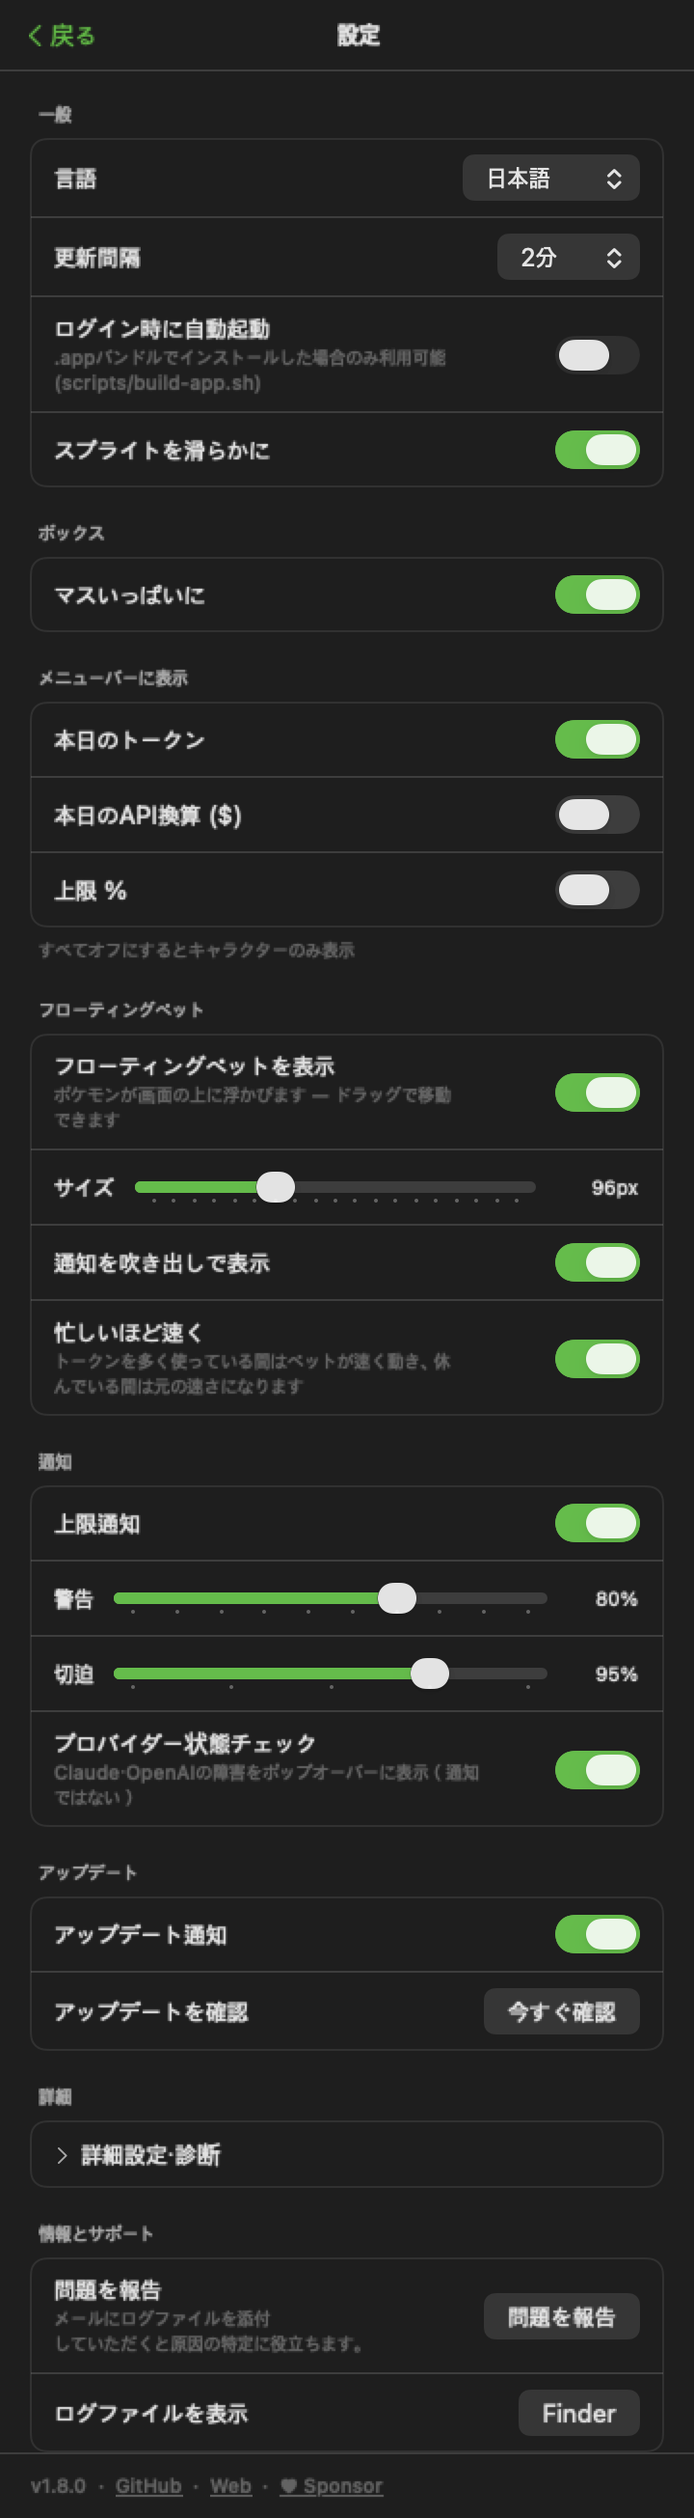
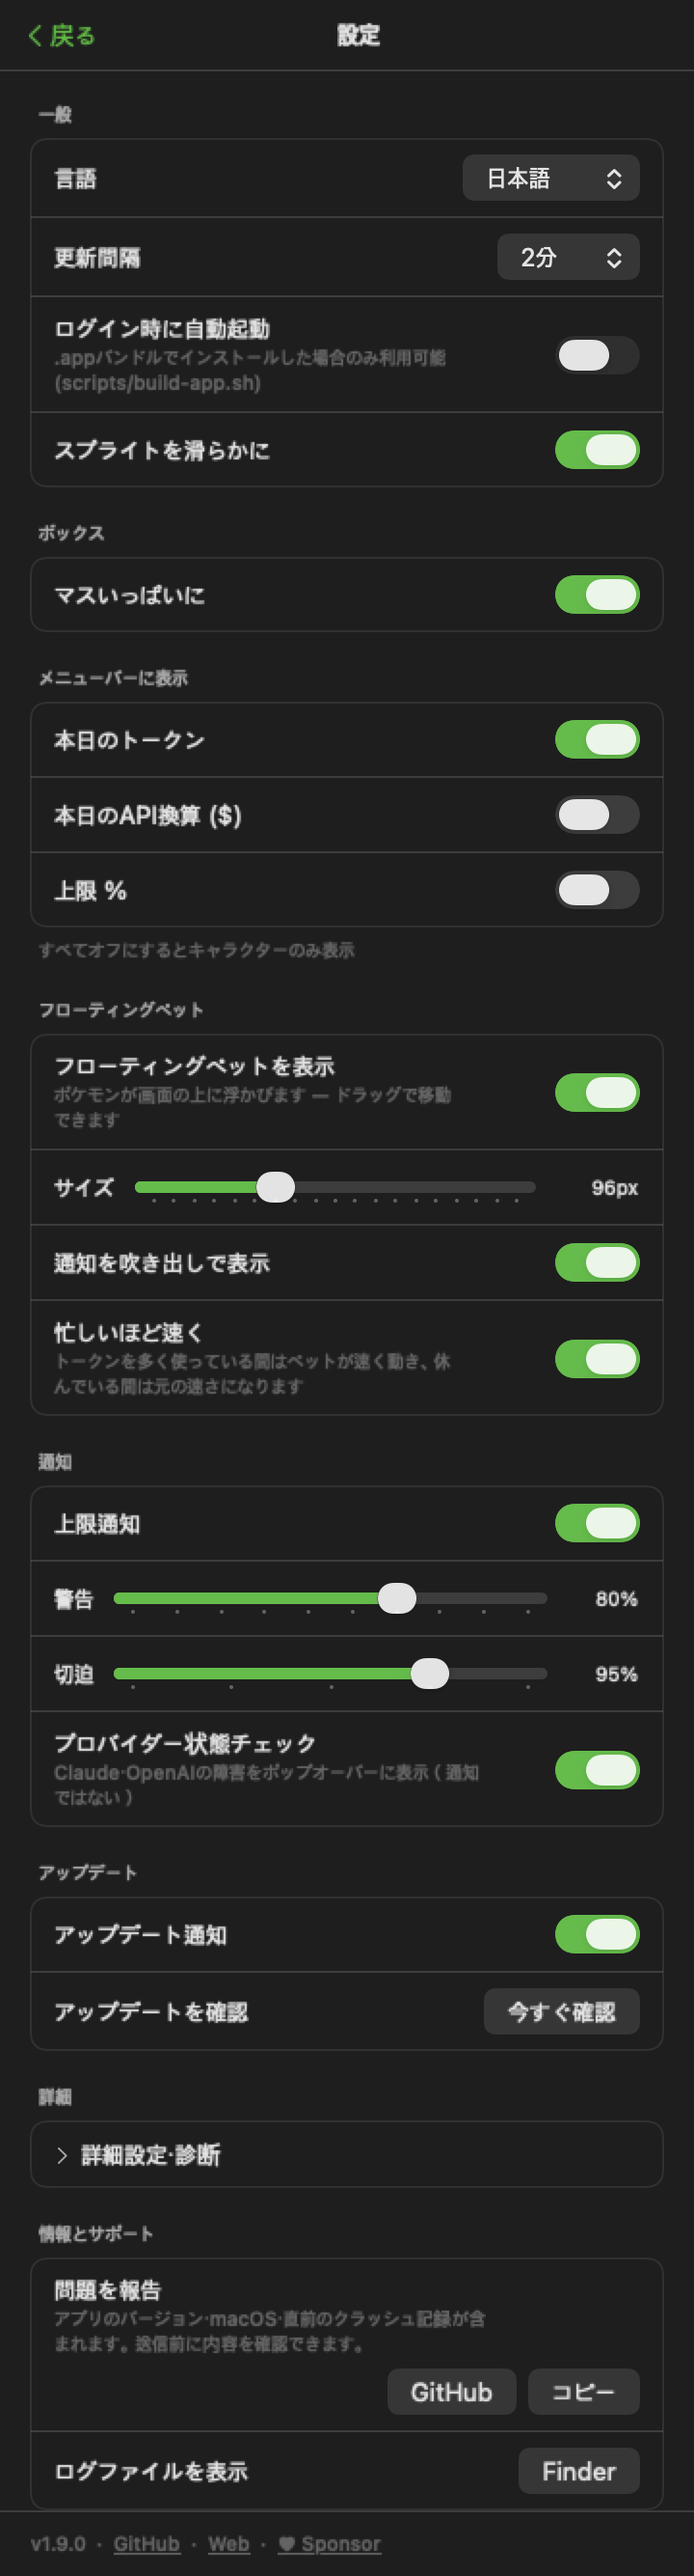
docs: document GitHub issue reporting with a new screenshot

diff --git a/Tests/PokeDexBarTests/ScreenshotGenerator.swift b/Tests/PokeDexBarTests/ScreenshotGenerator.swift
@@ -935,6 +935,12 @@ final class ScreenshotGeneratorTests: XCTestCase {
         // §릴리스 1 하드 게이트가 요구하는 신규 에셋이 이것이다.
         try write(png(boxTidyBanner()), "box-tidy.png")
 
+        // 문제 제보 — 크래시 배너(홈)와 설정의 제보 줄을 위아래로. **픽스처에 크래시 기록을
+        // 심어야 배너가 찍힌다** — 안 심으면 아무리 다시 생성해도 빈 자리만 나온다(설정
+        // 스크린샷에 플로팅 펫이 꺼져 있어 새 토글이 영영 안 찍히던 함정과 같은 부류).
+        // §릴리스 1 하드 게이트가 요구하는 신규 에셋이 이것이다.
+        try write(png(crashReportBanner()), "report.png")
+
         // 태어날 때 정해지는 겉모습 — 이름 옆 배지가 그 개체가 어떤 무늬로 태어났는지 말한다.
         // 지방 배지와 같은 자리를 쓰므로, 이 그림 하나로 두 규칙이 같이 설명된다.
         try write(png(tabChrome(BoxTabView(store: fixture.player, lines: ScreenshotFixture.lines,
@@ -1247,6 +1253,52 @@ final class ScreenshotGeneratorTests: XCTestCase {
         return VStack(alignment: .leading, spacing: 10) {
             grid(false, "As you got them")
             grid(true, "Tidied by highest level")
+        }
+        .padding(.horizontal, 14).padding(.vertical, 14)
+        .frame(width: PopoverMetrics.width, alignment: .leading)
+        .background(Color(nsColor: .windowBackgroundColor))
+    }
+
+    /// 크래시 제보 — 홈에 뜨는 배너와 설정의 제보 줄을 한 그림에.
+    ///
+    /// **크래시 기록을 실제로 심는다.** 배너는 `LastCrash.load()` 가 확인 전 기록을 돌려줄 때만
+    /// 뜨므로, 심지 않으면 이 캡처는 영원히 빈 자리다.
+    private func crashReportBanner() -> some View {
+        let now = ScreenshotFixture.now
+        let store = PlayerStore(fileURL: FileManager.default.temporaryDirectory
+                                    .appendingPathComponent("crash-\(UUID().uuidString).json"),
+                                rng: SeededRNG(seed: 41), now: { now },
+                                defaults: UserDefaults(suiteName: "ptb-crash-\(UUID().uuidString)")!)
+        store.setLanguage(.en)
+        store.seedForTesting(wallet: 0, slots: 1, eggs: 0, at: now)
+
+        LastCrash.fileURL = FileManager.default.temporaryDirectory
+            .appendingPathComponent("shot-lc-\(UUID().uuidString).json")
+        LastCrash.save(LastCrashRecord(at: now, version: AppEnv.appVersion ?? "1.9.0",
+                                       crashLines: ["[CRASH] fatal signal SIGTRAP"],
+                                       breadcrumbs: ["detail open: species=133 shiny=true"],
+                                       acknowledged: false))
+
+        return VStack(alignment: .leading, spacing: 10) {
+            Text("On the home tab, after an unexpected quit")
+                .font(.system(size: 10, weight: .semibold)).foregroundStyle(.secondary)
+            CrashReportCard(store: store, version: AppEnv.appVersion ?? "1.9.0")
+            Divider()
+            Text("In Settings, any time")
+                .font(.system(size: 10, weight: .semibold)).foregroundStyle(.secondary)
+            VStack(alignment: .leading, spacing: 6) {
+                VStack(alignment: .leading, spacing: 1) {
+                    Text(L(.en).reportProblem)
+                    Text(L(.en).reportAttachHint).font(.caption2).foregroundStyle(.tertiary)
+                        .fixedSize(horizontal: false, vertical: true)
+                }
+                .frame(maxWidth: .infinity, alignment: .leading)
+                HStack(spacing: 6) {
+                    Spacer()
+                    SupportActionRow(label: L(.en).reportOnGitHub, action: {})
+                    SupportActionRow(label: L(.en).copyDiagnostics, action: {})
+                }
+            }
         }
         .padding(.horizontal, 14).padding(.vertical, 14)
         .frame(width: PopoverMetrics.width, alignment: .leading)

diff --git a/Sources/PokeDexBar/UI/SettingsView.swift b/Sources/PokeDexBar/UI/SettingsView.swift
@@ -346,17 +346,26 @@ struct SettingsView: View {
 
     private var aboutSupportGroup: some View {
         settingsSection(l.aboutSupportSectionTitle) {
+            // **버튼을 아랫줄로 내린다.** 설명 옆에 나란히 뒀더니 332pt 안에서 제목이 두 줄로
+            // 접히고 설명이 6줄 기둥이 되며 두 번째 버튼 라벨이 잘렸다(렌더로 확인). 설명은
+            // 전폭으로 두고 버튼만 오른쪽 아래에 모은다.
             groupRow {
-                VStack(alignment: .leading, spacing: 1) {
-                    Text(l.reportProblem)
-                    Text(l.reportAttachHint).font(.caption2).foregroundStyle(.tertiary)
+                VStack(alignment: .leading, spacing: 6) {
+                    VStack(alignment: .leading, spacing: 1) {
+                        Text(l.reportProblem)
+                        Text(l.reportAttachHint).font(.caption2).foregroundStyle(.tertiary)
+                            .fixedSize(horizontal: false, vertical: true)
+                    }
+                    .frame(maxWidth: .infinity, alignment: .leading)
+                    HStack(spacing: 6) {
+                        Spacer()
+                        // GitHub 이 주 경로, 복사는 계정이 없거나 이슈가 잘렸을 때의 탈출구다.
+                        SupportActionRow(label: l.reportOnGitHub, action: reportProblem)
+                        SupportActionRow(
+                            label: didCopyDiagnostics ? l.diagnosticsCopied : l.copyDiagnostics,
+                            action: copyDiagnostics)
+                    }
                 }
-                Spacer()
-                // 두 버튼을 한 줄에 — GitHub 이 주 경로, 복사는 계정이 없거나 이슈가 잘렸을 때의
-                // 탈출구다. 계정 없이 막히는 사람이 아무 데도 못 가는 상태를 안 만든다.
-                SupportActionRow(label: l.reportOnGitHub, action: reportProblem)
-                SupportActionRow(label: didCopyDiagnostics ? l.diagnosticsCopied : l.copyDiagnostics,
-                                 action: copyDiagnostics)
             }
             Divider()
             // 로그 파일 보기 — 문제 제보 시 바로 첨부할 수 있게 같은 그룹에 둔다(고급 접기 밖).

diff --git a/Sources/PokeDexBar/Core/Localization.swift b/Sources/PokeDexBar/Core/Localization.swift
@@ -528,8 +528,11 @@ struct L {
     var reportProblem: String { t("문제 제보", "Report a problem", "問題を報告") }
     var showLogFile: String { t("로그 파일 보기", "Show log file", "ログファイルを表示") }
     var reportOnGitHub: String { t("GitHub", "GitHub", "GitHub") }
-    var copyDiagnostics: String { t("진단 정보 복사", "Copy diagnostics", "診断情報をコピー") }
-    var diagnosticsCopied: String { t("복사했어요", "Copied", "コピーしました") }
+    /// **짧게 유지한다.** "진단 정보 복사"/"Copy diagnostics" 로 뒀더니 GitHub 버튼과 한 줄에
+    /// 들어가면서 잘렸고(`assets/settings.png` 에서 "Copy diagno…"), 왼쪽 설명이 6줄 기둥으로
+    /// 접혔다. 옆 문장이 이미 무엇을 복사하는지 말한다.
+    var copyDiagnostics: String { t("복사", "Copy", "コピー") }
+    var diagnosticsCopied: String { t("복사됨", "Copied", "コピー済") }
     var reportAttachHint: String {
         t("앱 버전·macOS·직전 크래시 기록이 함께 담겨요. 보내기 전에 내용을 확인하실 수 있어요.",
           "Includes app version, macOS, and the last crash record. You can review it before sending.",

diff --git a/README.ko.md b/README.ko.md
@@ -206,6 +206,7 @@ PokeDexBar는 당신이 이미 태우고 있는 AI 코딩 토큰(Claude Code · 
 - **"물어 왔어요!"** — 파트너가 뭔가를 찾으면 홈에 카드가 뜨고, 눌러서 하나씩 확인합니다. 확인이 늦어도 손해는 없어요 — 채집은 토큰으로 돌기 때문에, 보고 있었는지와 무관하게 일한 만큼 쌓입니다.
 - **지방 모습** — 알로라·가라르·히스이·팔데아 모습은 해당 종이 부화할 때 20% 확률로 나타나고, 그 개체는 평생 그 모습을 유지하며 진화 갈래가 달라지기도 합니다. 메가진화·거다이맥스는 지방 모습에는 적용되지 않아요.
 - **리본** — 같은 포켓몬을 하루·일주일·한 달·석 달 동안 파트너로 두면 각각 인연·신뢰·유대·반려 리본을 달고, 리본마다 전용 배지가 있어요. 단계가 오를수록 경험치 사탕 하나가 나오는 데 필요한 토큰이 줄어들고(1억 5천만 → 2천만), 그 사탕은 파트너뿐 아니라 박스의 어느 개체에게나 먹일 수 있습니다.
+- **원인을 짚어 주는 크래시 제보** — 앱이 예기치 않게 종료되면 직전에 하던 스무 가지(어떤 포켓몬을 열었는지, 어느 탭에 있었는지)를 남겨 두었다가, 다음에 팝오버를 열 때 그 내용을 담은 GitHub 이슈 작성을 권합니다. 홈 디렉터리 경로는 지워지고 세이브는 담기지 않으며, 직접 제출을 누르기 전에는 아무것도 전송되지 않습니다.
 - **세이브 무결성 검사** — 세이브 파일을 직접 고치는 걸 막지는 않지만, 고치면 감지합니다 — 세이브에 조작 표시가 영구히 남고 모든 스프라이트가 위아래로 뒤집혀 보이지만, 진행 상황이 사라지지는 않아요.
 
 ## 지원 도구

diff --git a/README.md b/README.md
@@ -205,6 +205,7 @@ The shop sells seven things. The other 105 items only ever arrive in a partner's
 - **Regional forms** — Alolan, Galarian, Hisuian, and Paldean variants can hatch instead of the original (20% chance for species that have one) and stay with that individual for life, sometimes changing what it evolves into; Mega and Gigantamax forms aren't available to them.
 - **Ribbons** — keeping the same Pokémon as your partner for a day, a week, a month, or three months earns it Bond, Trust, Kinship, or Lifelong, each with its own badge; the tier sets how many tokens you spend before it produces one EXP Candy (150M down to 20M), and that candy can feed any individual in the Box, not just the partner. Each candy is also a roll for an item that partner needs.
 - **Found it!** — when a partner turns something up, a card on Home names what it brought and opens item by item. Acknowledging it is never a gate: foraging runs on tokens, so a day of work counts whether or not you were watching.
+- **Crash reports that name the culprit** — if the app ever quits unexpectedly, it keeps the last twenty things it was doing (which Pokémon you opened, which tab you were on) and offers to file a GitHub issue with them the next time you open the popover. Your home directory is stripped from the text, your save is never included, and nothing is sent until you press submit yourself.
 - **Save integrity check** — hand-editing the save file is detected, not prevented: it marks the save permanently and turns every sprite upside down, but your progress is never discarded.
 
 ## Works with
